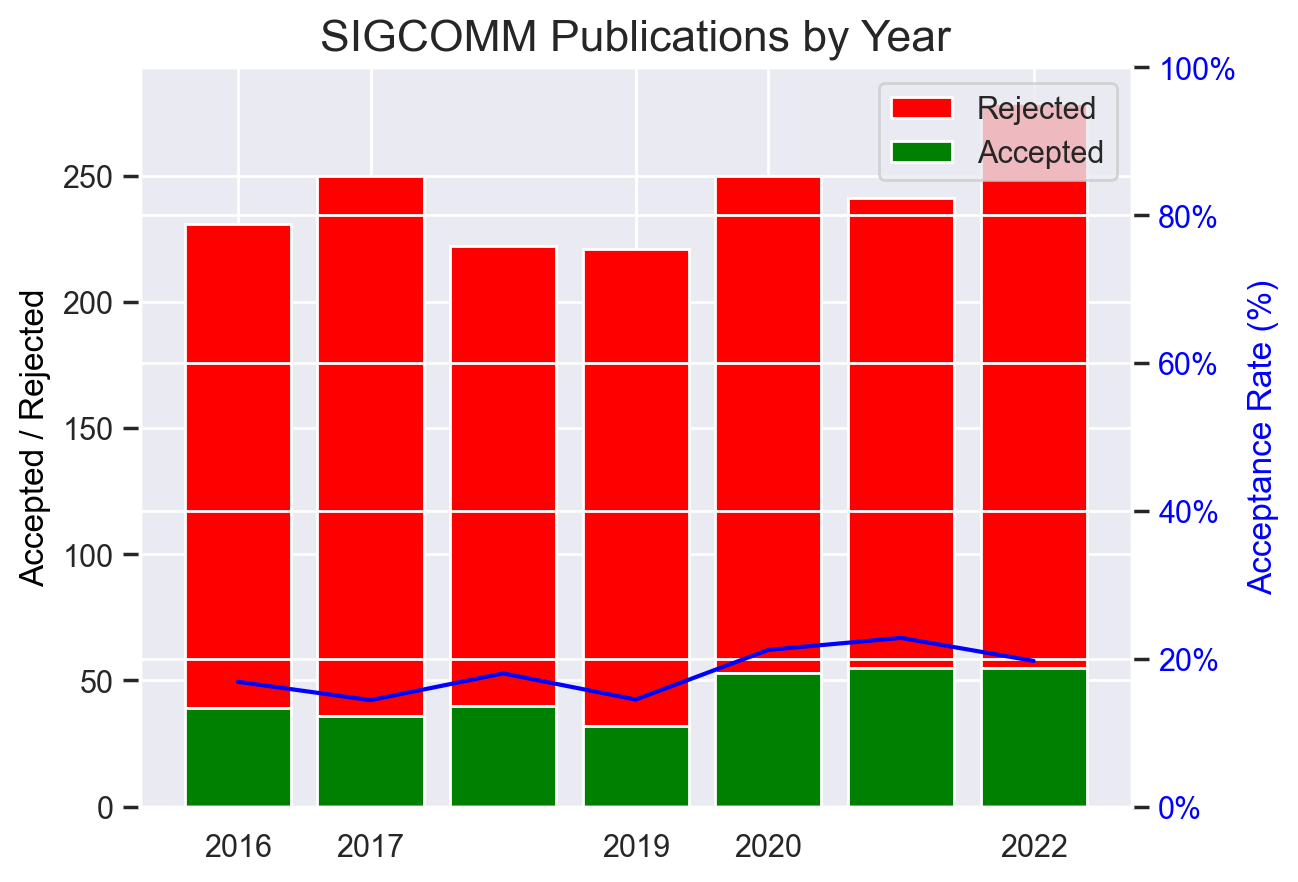
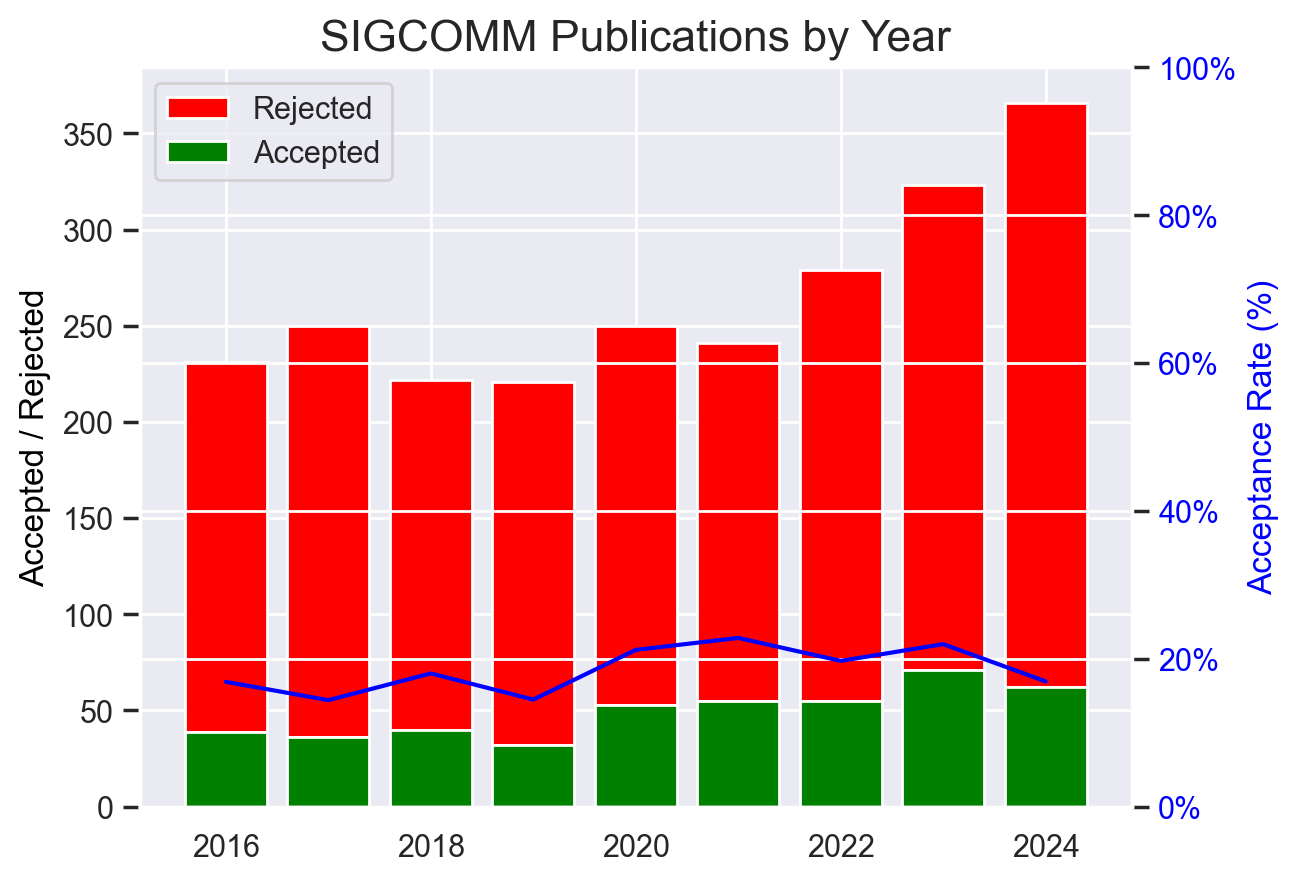
SIGCOMM

diff --git a/README.md b/README.md
@@ -190,7 +190,7 @@
 <IMG SRC="https://github.com/emeryberger/csconferences/blob/main/graphs/NSDI.png?raw=true" WIDTH="500">
 <A NAME="SIGCOMM"></A>
 <P><B><A HREF="https://dblp.org/db/conf/sigcomm/index.html">SIGCOMM</A></B>
- <em>mean acceptance rate, last 5 years: 19%</em></P>
+ <em>mean acceptance rate, last 5 years: 21%</em></P>
 <IMG SRC="https://github.com/emeryberger/csconferences/blob/main/graphs/SIGCOMM.png?raw=true" WIDTH="500">
 </details>
 <details>
